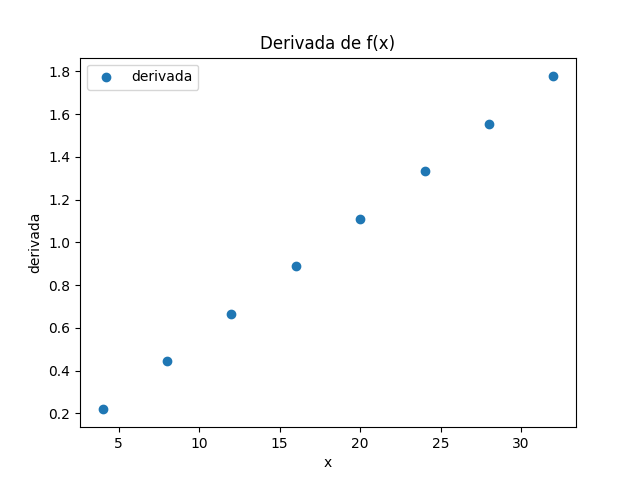
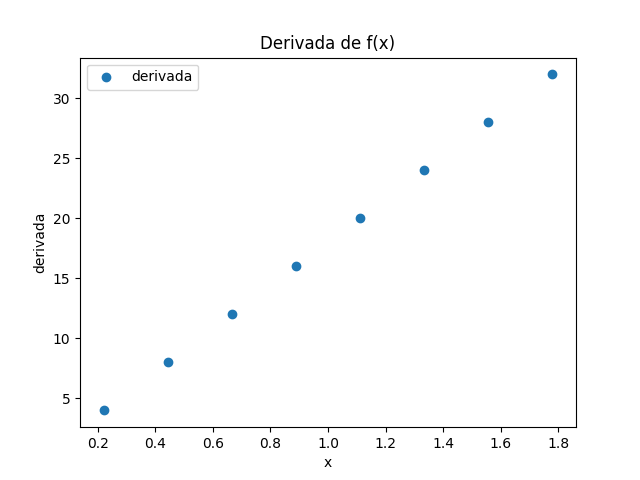
commit de p1, 2 y 3

diff --git a/ejercicio3.py b/ejercicio3.py
@@ -4,6 +4,28 @@
 # Calcule la covarianza entre `u` y `v` e imprima su valor.
 
 import numpy as np
+import matplotlib
+matplotlib.use('Agg')
+import matplotlib.pyplot as plt
+
+
 t = np.array([0.,0.1,0.2,0.3,0.4,0.5,0.6, 0.8, 0.9])
 u = np.array([12.,45.,6.,78.,34.,22.,-10.,31.,-27.])
 v = np.array([3.,11.,1.3,37.,11.,6.,-23.,7.,7.])
+
+n=np.size(u)
+pu=np.sum(u)/n
+pv=np.sum(v)/n
+uu=u-pu
+vv=v-pv
+cov=(u*v)/(n-1)
+
+plt.figure()
+plt.scatter(t,u, label="u", c="b")
+plt.scatter(t,v, label="v", c="g")
+plt.xlabel("t")
+plt.title("u y v vs. t")
+plt.legend()
+plt.savefig("serie.png")
+
+print(np.sum(cov))

diff --git a/ejercicio1.py b/ejercicio1.py
@@ -15,7 +15,7 @@ dx=x[1]-x[0]
 d=(fx[2:]-fx[:-2])/(dx*dx)
 
 plt.figure()
-plt.scatter(d,x[1:-1], label="derivada")
+plt.scatter(x[1:-1],d, label="derivada")
 plt.xlabel("x")
 plt.ylabel("derivada")
 plt.title("Derivada de f(x)")
